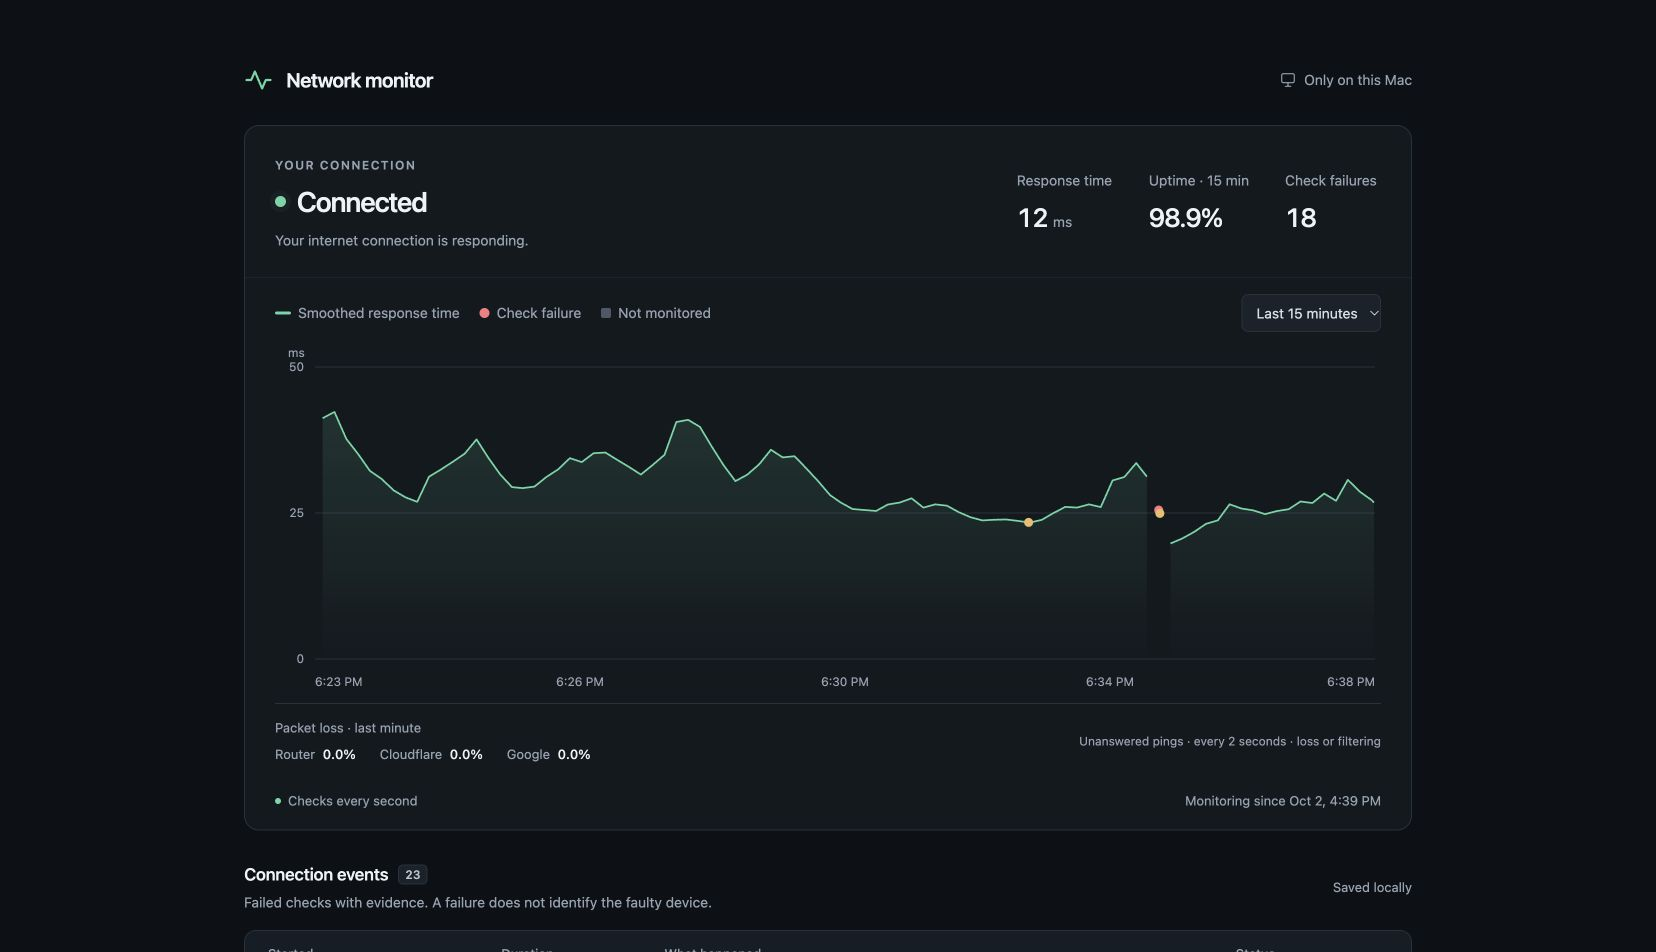
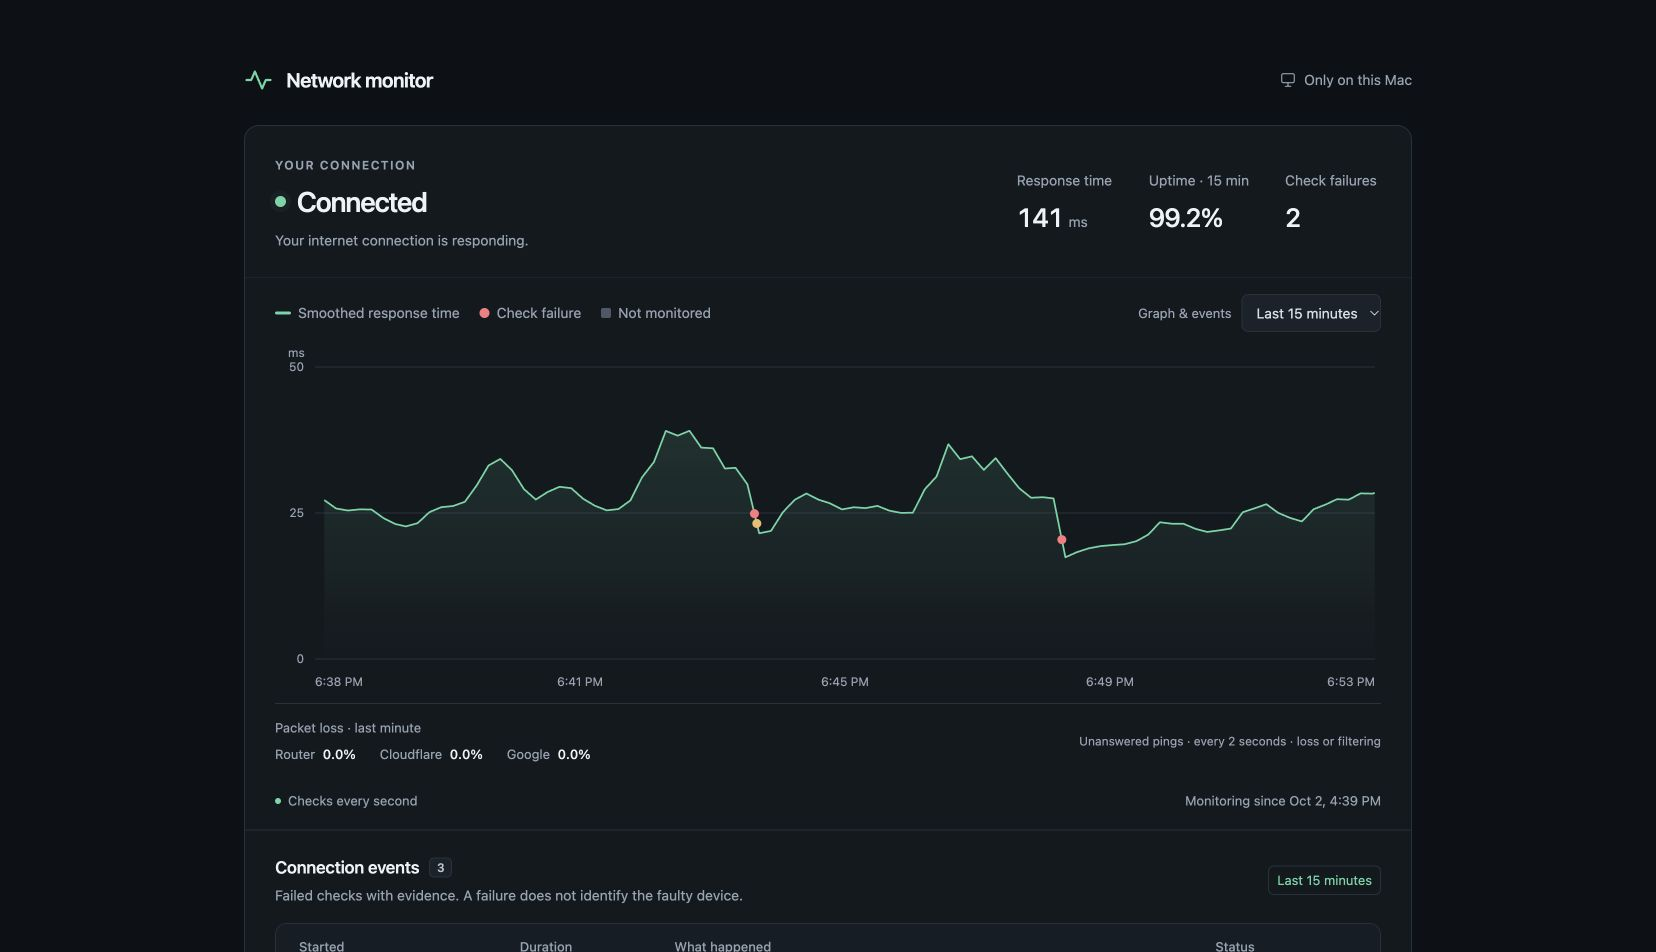
Filter connection events by graph range and unify dashboard panel

diff --git a/index.html b/index.html
@@ -17,6 +17,7 @@
       <span class="local-label"><svg viewBox="0 0 20 20" fill="none" aria-hidden="true"><rect x="3" y="3" width="14" height="10" rx="2" stroke="currentColor" stroke-width="1.3"/><path d="M7 17h6M10 13v4" stroke="currentColor" stroke-width="1.3" stroke-linecap="round"/></svg>Only on this Mac</span>
     </header>
 
+    <div class="connection-panel">
     <section class="graph-card" aria-labelledby="connection-title">
       <div class="connection-top">
         <div class="connection-summary">
@@ -32,7 +33,7 @@
       </div>
       <div class="chart-bar">
         <div class="legend"><span><i class="line-key"></i><span title="30-second median with a 30-second trend, shown in 10-second steps. Raw failures remain visible.">Smoothed response time</span></span><span><i class="drop-key"></i>Check failure</span><span id="pause-legend"><i class="pause-key"></i>Not monitored</span></div>
-        <label class="range-label"><span class="sr-only">Graph time range</span><select id="window"><option value="300">Last 5 minutes</option><option value="900" selected>Last 15 minutes</option><option value="3600">Last hour</option><option value="86400">Last 24 hours</option></select></label>
+        <label class="range-label"><span class="range-caption">Graph &amp; events</span><select id="window"><option value="300">Last 5 minutes</option><option value="900" selected>Last 15 minutes</option><option value="3600">Last hour</option><option value="86400">Last 24 hours</option></select></label>
       </div>
       <div class="chart-wrap" id="chart-wrap">
         <canvas id="chart" role="img" aria-label="Smoothed response time graph. Failed checks are red dots; DNS issues are amber dots; monitoring gaps are gray."></canvas>
@@ -44,7 +45,7 @@
     </section>
 
     <section class="events-section" aria-labelledby="events-title">
-      <div class="events-heading"><div><h2 id="events-title">Connection events <span id="event-count" class="count">0</span></h2><p>Failed checks with evidence. A failure does not identify the faulty device.</p></div><span id="history-note">Saved locally</span></div>
+      <div class="events-heading"><div><h2 id="events-title">Connection events <span id="event-count" class="count">0</span></h2><p>Failed checks with evidence. A failure does not identify the faulty device.</p></div><span id="history-note">Last 15 minutes</span></div>
       <div class="events-card">
         <table id="events-table" hidden>
           <thead><tr><th scope="col">Started</th><th scope="col">Duration</th><th scope="col">What happened</th><th scope="col">Status</th></tr></thead>
@@ -54,6 +55,7 @@
         <button id="load-more" class="load-more" hidden>Show older events</button>
       </div>
     </section>
+    </div>
     <footer class="page-footer"><span>Monitoring continues when you close this tab.</span><span>Checks this Mac’s connection. Work VPN status is not measured.</span></footer>
     <p id="announcement" class="sr-only" role="status" aria-live="polite"></p>
   </main>

diff --git a/dashboard.js b/dashboard.js
@@ -38,6 +38,7 @@
     $("uptime-window").textContent=`· ${{300:"5 min",900:"15 min",3600:"1 hr",86400:"24 hr"}[data.window]}`;
     $("drops").textContent=String(data.drop_count);
     $("event-count").textContent=String(data.event_count);
+    $("history-note").textContent=range.selectedOptions[0].text;
     $("since").textContent=`Monitoring since ${date(data.first_seen)}, ${time(data.first_seen)}`;
     $("check-status").replaceChildren(el("span","","live-dot"),document.createTextNode(state==="blocked"?"Checks blocked":fresh?"Checks every second":"Waiting for a fresh check"));
     $("check-status").firstChild.style.background=state==="offline"?colors.red:state==="dns"?colors.amber:state==="blocked"||state==="waiting"?colors.gray:colors.green;
@@ -59,8 +60,8 @@
     const body=$("events-body");body.replaceChildren();
     $("events-table").hidden=!data.events.length;
     $("events-empty").hidden=Boolean(data.events.length);
-    $("events-empty").querySelector("h3").textContent="No check failures recorded";
-    $("events-empty").querySelector("p").textContent="Failed checks and monitoring gaps appear here. Causes need supporting evidence.";
+    $("events-empty").querySelector("h3").textContent="No events in this time range";
+    $("events-empty").querySelector("p").textContent=`No events overlap ${range.selectedOptions[0].text.toLowerCase()}. Choose a longer range to see earlier events.`;
     for(const event of data.events){
       const row=el("tr");
       const started=el("td",time(event.start,true));started.append(el("span",date(event.start),"event-date"));
@@ -75,7 +76,7 @@
       status.append(el("span",label,`badge ${badge}`));row.append(started,elapsed,what,status);body.append(row);
     }
     $("load-more").hidden=data.events.length>=data.event_count;
-    $("load-more").textContent=`Show older events (${data.event_count-data.events.length} more)`;
+    $("load-more").textContent=`Show more in this range (${data.event_count-data.events.length} more)`;
   }
 
   function geometry() {
@@ -149,7 +150,7 @@
       if(id===requestId)render(next);
     }catch(error){if(id===requestId)stopped();}
   }
-  range.addEventListener("change",()=>{hover=null;$("tooltip").hidden=true;refresh();});
+  range.addEventListener("change",()=>{eventLimit=50;hover=null;$("tooltip").hidden=true;refresh();});
   $("load-more").addEventListener("click",()=>{eventLimit+=100;refresh();});
   new ResizeObserver(()=>draw()).observe($("chart-wrap"));
   document.addEventListener("visibilitychange",()=>{if(!document.hidden)refresh();});

diff --git a/styles.css b/styles.css
@@ -6,3 +6,5 @@
 .loss-summary{margin:8px 30px 0;padding:14px 0;border-top:1px solid var(--border);display:flex;align-items:center;justify-content:space-between;gap:16px;flex-wrap:wrap;font-size:.8125rem;color:var(--muted)}.loss-label{display:block;margin-bottom:7px}.loss-values{display:flex;gap:24px;flex-wrap:wrap}.loss-target strong{color:var(--text);font-variant-numeric:tabular-nums;margin-left:4px;font-weight:500}#loss-note{font-size:.75rem}@media(max-width:640px){.loss-summary{margin-left:18px;margin-right:18px}.loss-values{gap:16px}}
 
 .legend .drop-key{border-radius:50%}
+
+.connection-panel{border:1px solid var(--border);border-radius:15px;background:var(--card);overflow:hidden}.connection-panel .graph-card{border:0;border-radius:0}.connection-panel .events-section{margin-top:0;padding:24px 30px 30px;border-top:1px solid var(--border)}.connection-panel .events-card{background:var(--bg)}.range-label{display:flex;align-items:center;gap:10px}.range-caption{color:var(--muted);font-size:.8125rem;white-space:nowrap}#history-note{display:inline-block;color:var(--green);border:1px solid var(--border);border-radius:6px;padding:4px 8px;white-space:nowrap}@media(max-width:640px){.connection-panel .events-section{padding:20px 18px}.range-label{align-items:flex-end;flex-direction:column;gap:4px}.events-heading{flex-wrap:wrap;gap:10px}}

diff --git a/tests/test_monitor.py b/tests/test_monitor.py
@@ -165,7 +165,24 @@ class HistoryTests(unittest.TestCase):
         self.store.record(old, "offline", None, "Old drop", "Old event")
         self.store.record(self.ts, "online", 25, "Connected", "Recovered")
         self.assertEqual(self.store.db.execute("SELECT COUNT(*) FROM samples").fetchone()[0], 1)
-        self.assertEqual(self.store.snapshot()["drop_count"], 1)
+        self.assertEqual(self.store.snapshot()["drop_count"], 0)
+        self.assertEqual(self.store.db.execute("SELECT COUNT(*) FROM events WHERE kind='offline'").fetchone()[0], 1)
+
+    def test_time_range_filters_events_counts_and_preserves_overlapping_events(self):
+        now = time.time()
+        with self.store.db:
+            for begin, end, kind in [(now-800,now-700,"offline"), (now-350,now-290,"offline"), (now-100,now-90,"dns"), (now-900,None,"offline"), (now+100,now+110,"offline")]:
+                self.store.db.execute("INSERT INTO events(start,end,kind,reason,detail) VALUES (?,?,?,?,?)", (begin,end,kind,"Test","Test"))
+        with patch("monitor.time.time", return_value=now):
+            short = self.store.snapshot(300, event_limit=1)
+            long = self.store.snapshot(900)
+        self.assertEqual(short["event_count"], 3)
+        self.assertEqual(short["drop_count"], 2)
+        self.assertEqual(short["dns_count"], 1)
+        self.assertEqual(len(short["events"]), 1)
+        self.assertEqual(len(short["bands"]), 3)
+        self.assertEqual(long["event_count"], 4)
+        self.assertEqual({e["id"] for e in long["events"]}, {e["id"] for e in long["bands"]})
 
     def test_older_events_remain_retrievable(self):
         for second in range(110):

diff --git a/monitor.py b/monitor.py
@@ -298,11 +298,11 @@ class Store:
             points = [{**dict(point), "smooth": smoothed.get(int(point["ts"] / step))} for point in points]
             loss = packet_loss(self.db.execute("SELECT ts,completed,evidence FROM diagnostics WHERE ts>=? ORDER BY ts", (now - 60,)).fetchall(), now)
             bands = self.db.execute("SELECT * FROM events WHERE start<=? AND (end IS NULL OR end>=?) ORDER BY start", (now, start)).fetchall()
-            events = self.db.execute("SELECT * FROM events ORDER BY start DESC, id DESC LIMIT ?", (event_limit,)).fetchall()
+            events = self.db.execute("SELECT * FROM events WHERE start<=? AND (end IS NULL OR end>=?) ORDER BY start DESC, id DESC LIMIT ?", (now, start, event_limit)).fetchall()
             events = [self.event_evidence(row) for row in events]
-            count = self.db.execute("SELECT COUNT(*) FROM events").fetchone()[0]
-            drops = self.db.execute("SELECT COUNT(*) FROM events WHERE kind='offline'").fetchone()[0]
-            issues = self.db.execute("SELECT COUNT(*) FROM events WHERE kind='dns'").fetchone()[0]
+            count = len(bands)
+            drops = sum(row["kind"] == "offline" for row in bands)
+            issues = sum(row["kind"] == "dns" for row in bands)
             stats = self.db.execute("""SELECT COUNT(*) AS n, SUM(state='online') AS good,
                 SUM(state='offline') AS bad, SUM(state='dns') AS dns,
                 AVG(latency) AS avg_latency FROM samples WHERE ts>=? AND state!='blocked'""", (start,)).fetchone()

diff --git a/README.md b/README.md
@@ -23,6 +23,7 @@ To stop: `python3 launcher.py stop` or double-click **Stop.command**.
 - Checks Google and Cloudflare every second; both must fail to record a drop.
 - Shows a smooth response-time graph (30-second median plus a 30-second exponential trend, displayed in 10-second steps), with red failure dots at their original times. Raw checks stay saved.
 - Shows last-minute packet loss separately for the router, Cloudflare, and Google (pings every two seconds; unanswered pings can mean loss or filtering).
+- The time-range dropdown filters both the graph and event list, including events still ongoing or overlapping the range. Counts match the selection.
 - Saves events with times, approximate durations, and recovery status.
 - Saves probe errors and runs independent internet pings and longer TCP checks to investigate failures. A responding router does not rule out Mac, Wi-Fi, router, or ISP problems.
 - Checks DNS separately. This Mac cannot directly diagnose a VPN running on another machine.
